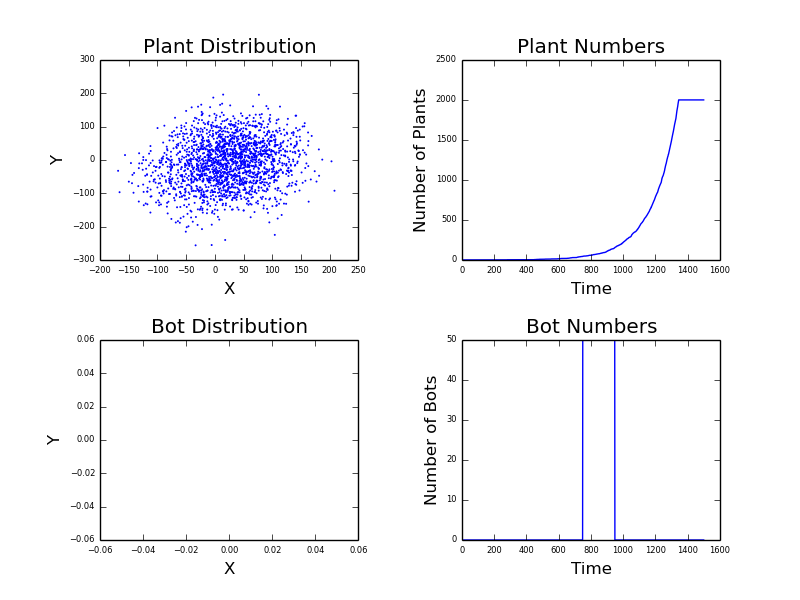
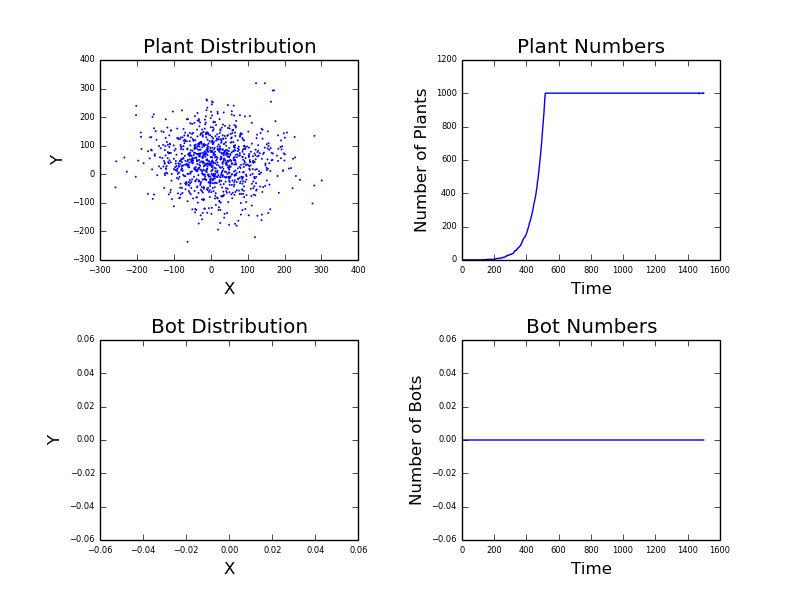
Added a GraphicalSimulation class that uses pygame to render the simulation. Subclassed BehaviorNode for Conditional and Statement Nodes. Creating nodes and hooking them up together is a little more understandable. Bots now have a maximum amount of energy they can store.

diff --git a/simulation.py b/simulation.py
@@ -1,11 +1,9 @@
-import random
 import os
 from matplotlib import pyplot as plt
-import numpy as np
 import time
+import pygame
 
 from entities import *
-from intelligence import *
 
 
 class World:
@@ -21,6 +19,7 @@ class World:
             for entity in list(array):
                 entity.step()
                 if entity.dead:
+                    print("%s has died" % str(entity))
                     array.remove(entity)
 
     def add_bot(self, bot):
@@ -36,47 +35,17 @@ class World:
         self.plants.append(plant)
 
 
-if __name__ == '__main__':
-    start_time = time.time()
-    print("Starting Simulation...")
-    Earth = World(plant_limit=1000)
-    Earth.add_plant(Plant(0, 0, 5))
-    plant_numbers = []
-    bot_numbers = []
+def no_graphics_run():
 
     def run(ticks):
         for tick in range(ticks):
-            Earth.step()
+            earth.step()
             # Keep track of some info for graphing
-            plant_numbers.append(len(Earth.plants))
-            bot_numbers.append(len(Earth.bots))
+            plant_numbers.append(len(earth.plants))
+            bot_numbers.append(len(earth.bots))
 
     run(500)
 
-    # Create basic nodes
-    basic_behavior = BehaviorTree()
-    check_if_can_clone_node = BehaviorNode(Bot.can_i_reproduce)
-    create_clone_node = BehaviorNode(Bot.create_clone)
-    target_food_node = BehaviorNode(Bot.target_food)
-    move_to_target_node = BehaviorNode(Bot.move_towards_target)
-    check_near_target_node = BehaviorNode(Bot.am_i_near_target)
-    eat_node = BehaviorNode(Bot.eat_nearby_food)
-
-    # Wire the nodes together
-    check_if_can_clone_node.true_node = create_clone_node
-    check_if_can_clone_node.false_node = target_food_node
-    create_clone_node.next_node = check_if_can_clone_node
-    target_food_node.next_node = move_to_target_node
-    move_to_target_node.next_node = check_near_target_node
-    check_near_target_node.false_node = move_to_target_node
-    check_near_target_node.true_node = eat_node
-    eat_node.next_node = check_if_can_clone_node
-
-    basic_behavior.behavior_nodes = [check_if_can_clone_node, create_clone_node, target_food_node,
-                                     move_to_target_node, check_near_target_node, eat_node]
-
-    basic_behavior.current_behavior_node = check_if_can_clone_node
-    Earth.add_bot(Bot(0, 0, 200, behavior_tree=basic_behavior.return_tree_copy()))
     run(1000)
 
     def graph_results():
@@ -85,7 +54,7 @@ if __name__ == '__main__':
         graph.subplots_adjust(wspace=0.4)
         graph.subplots_adjust(hspace=0.4)
         plant_dist = graph.add_subplot(2, 2, 1)
-        plant_dist.scatter([plant.x for plant in Earth.plants], [plant.y for plant in Earth.plants], s=2, lw=0)
+        plant_dist.scatter([plant.x for plant in earth.plants], [plant.y for plant in earth.plants], s=2, lw=0)
         plant_dist.set_xlabel('X')
         plant_dist.set_ylabel('Y')
 
@@ -95,7 +64,7 @@ if __name__ == '__main__':
         plant_nums.plot(range(0, len(plant_numbers)), plant_numbers)
 
         bot_dist = graph.add_subplot(2, 2, 3)
-        bot_dist.scatter([bot.x for bot in Earth.bots], [bot.y for bot in Earth.bots], s=2, lw=0)
+        bot_dist.scatter([bot.x for bot in earth.bots], [bot.y for bot in earth.bots], s=2, lw=0)
         bot_dist.set_xlabel('X')
         bot_dist.set_ylabel('Y')
 
@@ -113,4 +82,76 @@ if __name__ == '__main__':
         graph.savefig(os.getcwd() + os.sep + 'graphs' + os.sep + 'simulation.png', dpi=100)
 
     graph_results()
+
+
+class GraphicalSimulation:
+    def __init__(self, world):
+        pygame.init()
+        screen = pygame.display.set_mode((500, 500))
+        self.clock = pygame.time.Clock()
+        running = 1
+        tick = 0
+        self.world = world
+        center = screen.get_width()/2, screen.get_height()/2
+        # Run the simulation to get plants spread out
+        for i in range(1000):
+            self.world.step()
+        # Add a bot and display the simulation
+        behavior = GraphicalSimulation.create_basic_intelligence()
+        self.world.add_bot(Bot(0, 0, 250, behavior))
+        while running:
+            for event in pygame.event.get():
+                if event.type == pygame.QUIT:
+                    running = 0
+                elif event.type == pygame.KEYDOWN and event.key == pygame.K_ESCAPE:
+                    running = 0
+            screen.fill((1, 2, 3))
+            pygame.display.flip()
+            # Do stuff
+            # Update the world
+            self.world.step()
+            # Draw the plants and bots
+            pixels = pygame.surfarray.pixels3d(screen)
+            for entity_list, color in [(self.world.plants, (40, 200, 40)), (self.world.bots, (150, 40, 150))]:
+                for entity in entity_list:
+                    # Offset the origin to half the screen dimensions
+                    x = entity.x + center[0]
+                    y = entity.y + center[1]
+                    pixels[x][y] = color
+                    # pygame.draw.ellipse(screen, color, (x, y, 1, 1))
+            tick += 1
+            pygame.display.update()
+            self.clock.tick(15)
+        pygame.quit()
+
+    @staticmethod
+    def create_basic_intelligence():
+        check_reproduce_node = ConditionalNode(Bot.can_i_reproduce)
+        create_clone_node = StatementNode(Bot.create_clone)
+        target_food_node = StatementNode(Bot.target_food)
+        move_to_target_node = StatementNode(Bot.move_towards_target)
+        check_at_target_node = ConditionalNode(Bot.am_i_near_target)
+        eat_node = StatementNode(Bot.eat_nearby_food)
+
+        check_reproduce_node.assign_edges(create_clone_node, target_food_node)
+        create_clone_node.assign_edge(check_reproduce_node)
+        target_food_node.assign_edge(move_to_target_node)
+        move_to_target_node.assign_edge(check_at_target_node)
+        check_at_target_node.assign_edges(eat_node, move_to_target_node)
+        eat_node.assign_edge(check_reproduce_node)
+
+        behavior = BehaviorTree()
+        behavior.behavior_nodes = [check_reproduce_node, create_clone_node, target_food_node,
+                                   move_to_target_node, check_at_target_node, eat_node]
+        behavior.current_behavior_node = target_food_node
+        return behavior
+
+if __name__ == '__main__':
+    print("Starting Simulation...")
+    start_time = time.time()
+    earth = World(plant_limit=300)
+    earth.add_plant(Plant(0, 0, 5))
+    plant_numbers = []
+    bot_numbers = []
+    GraphicalSimulation(earth)
     print("Elapsed seconds:", time.time() - start_time)

diff --git a/intelligence.py b/intelligence.py
@@ -14,7 +14,6 @@ def statement(function):
     @functools.wraps(function)
     def dec(*args, **kwargs):
         return function(*args, **kwargs)
-
     NodeRegister.registered_statements.append(dec)
     return dec
 
@@ -23,38 +22,55 @@ def conditional(function):
     @functools.wraps(function)
     def dec(*args, **kwargs):
         return function(*args, **kwargs)
-
     NodeRegister.registered_conditionals.append(dec)
     return dec
 
 
-class BehaviorNode:
+class BaseBehaviorNode:
+    count = 0
+
     def __init__(self, function):
         self.function = function
-        self.node_type = self._assign_node_type()
+        BaseBehaviorNode.count += 1
+        self.node_number = BaseBehaviorNode.count
+
+    def execute(self, bot):
+        return self.function(bot)
+
+    def __repr__(self):
+        return str(self.node_number) + '_' + self.function.__name__
+
+
+class StatementNode(BaseBehaviorNode):
+    def __init__(self, function):
+        super().__init__(function)
         self.next_node = None
+
+    def assign_edge(self, next_node):
+        self.next_node = next_node
+
+    def execute(self, bot):
+        super().execute(bot)
+        return self.next_node
+
+
+class ConditionalNode(BaseBehaviorNode):
+    def __init__(self, function):
+        super().__init__(function)
         self.true_node = None
         self.false_node = None
 
+    def assign_edges(self, true_node, false_node):
+        self.true_node = true_node
+        self.false_node = false_node
+
     def execute(self, bot):
-        result = self.function(bot)
-        if self.node_type == NodeRegister.statement:
-            return self.next_node
-        elif self.node_type == NodeRegister.conditional:
-            if result:
-                return self.true_node
-            return self.false_node
-
-    def _assign_node_type(self):
-        if self.function in NodeRegister.registered_statements:
-            return NodeRegister.statement
-        elif self.function in NodeRegister.registered_conditionals:
-            return NodeRegister.conditional
-        else:
-            raise LookupError("Function %s is not registered as a statement or condition" % self.function)
-
-    def __repr__(self):
-        return self.function.__name__
+        result = super().execute(bot)
+        if result is None:
+            raise ValueError("Functions of conditional nodes must return True or False, not None.")
+        if result:
+            return self.true_node
+        return self.false_node
 
 
 class BehaviorTree:
@@ -64,7 +80,7 @@ class BehaviorTree:
 
     def step(self, bot):
         if self.current_behavior_node is None:
-            raise ValueError("Current Node Must be a function, not None. (Bot: %s)" % bot)
+            raise ValueError("Current node must be a function, not None. (Bot: %s)" % bot)
         self.current_behavior_node = self.current_behavior_node.execute(bot)
 
     def return_tree_copy(self):

diff --git a/entities.py b/entities.py
@@ -5,11 +5,18 @@ from intelligence import *
 
 class BaseSimulationEntity:
     def __init__(self, x, y, energy):
+        self.name = 'BaseEntity'
         self.world = None
         self.x = x
         self.y = y
         self.energy = energy
         self.dead = False
+
+    def step(self):
+        pass
+
+    def __repr__(self):
+        return self.name
 
 
 class Bot(BaseSimulationEntity):
@@ -19,7 +26,8 @@ class Bot(BaseSimulationEntity):
         super().__init__(x_start, y_start, energy)
         self.behavior_tree = behavior_tree
         self.speed = 1
-        self.child_investment = 150
+        self.child_investment = 200
+        self.max_energy = 300
         self.target_point = None
         Bot.counter += 1
         if name is None:
@@ -34,9 +42,6 @@ class Bot(BaseSimulationEntity):
         self.energy -= 1
         if self.energy < 1:
             self.dead = True
-
-    def __repr__(self):
-        return self.name
 
     @staticmethod
     @conditional
@@ -81,15 +86,16 @@ class Bot(BaseSimulationEntity):
     @statement
     def eat_nearby_food(bot):
         # TODO: have bots use signals to find food within a small distance from them
-        for food in bot.world.plants:
-            if math.sqrt(((food.x - bot.x)**2) + ((food.y - bot.y)**2)) <= 3:
-                message = "Transferring "
-                energy = food.energy
-                message += str(energy) + " energy from " + str(food) + " to " + str(bot)
-                food.world.plants.remove(food)
-                bot.energy += energy
-                print(message)
-                break
+        if bot.energy < bot.max_energy:
+                for food in bot.world.plants:
+                    if math.sqrt(((food.x - bot.x)**2) + ((food.y - bot.y)**2)) <= 3:
+                        message = "Transferring "
+                        energy = food.energy
+                        message += str(energy) + " energy from " + str(food) + " to " + str(bot)
+                        food.world.plants.remove(food)
+                        bot.energy += energy
+                        print(message)
+                    break
 
 
 class Plant(BaseSimulationEntity):
@@ -104,7 +110,7 @@ class Plant(BaseSimulationEntity):
             self.name = name
         self.age = 0
         self.max_age = 1000
-        self.max_energy = 200
+        self.max_energy = 50
         self.growth_rate = 1
         self.child_investment = 20
         self.spore_min_travel = 10
@@ -120,9 +126,6 @@ class Plant(BaseSimulationEntity):
         if self.age > self.max_age:
             self.dead = True
         self.age += 1
-
-    def __repr__(self):
-        return self.name
 
     def check_reproduction(self):
         if self.energy >= (self.max_energy - self.child_investment):
